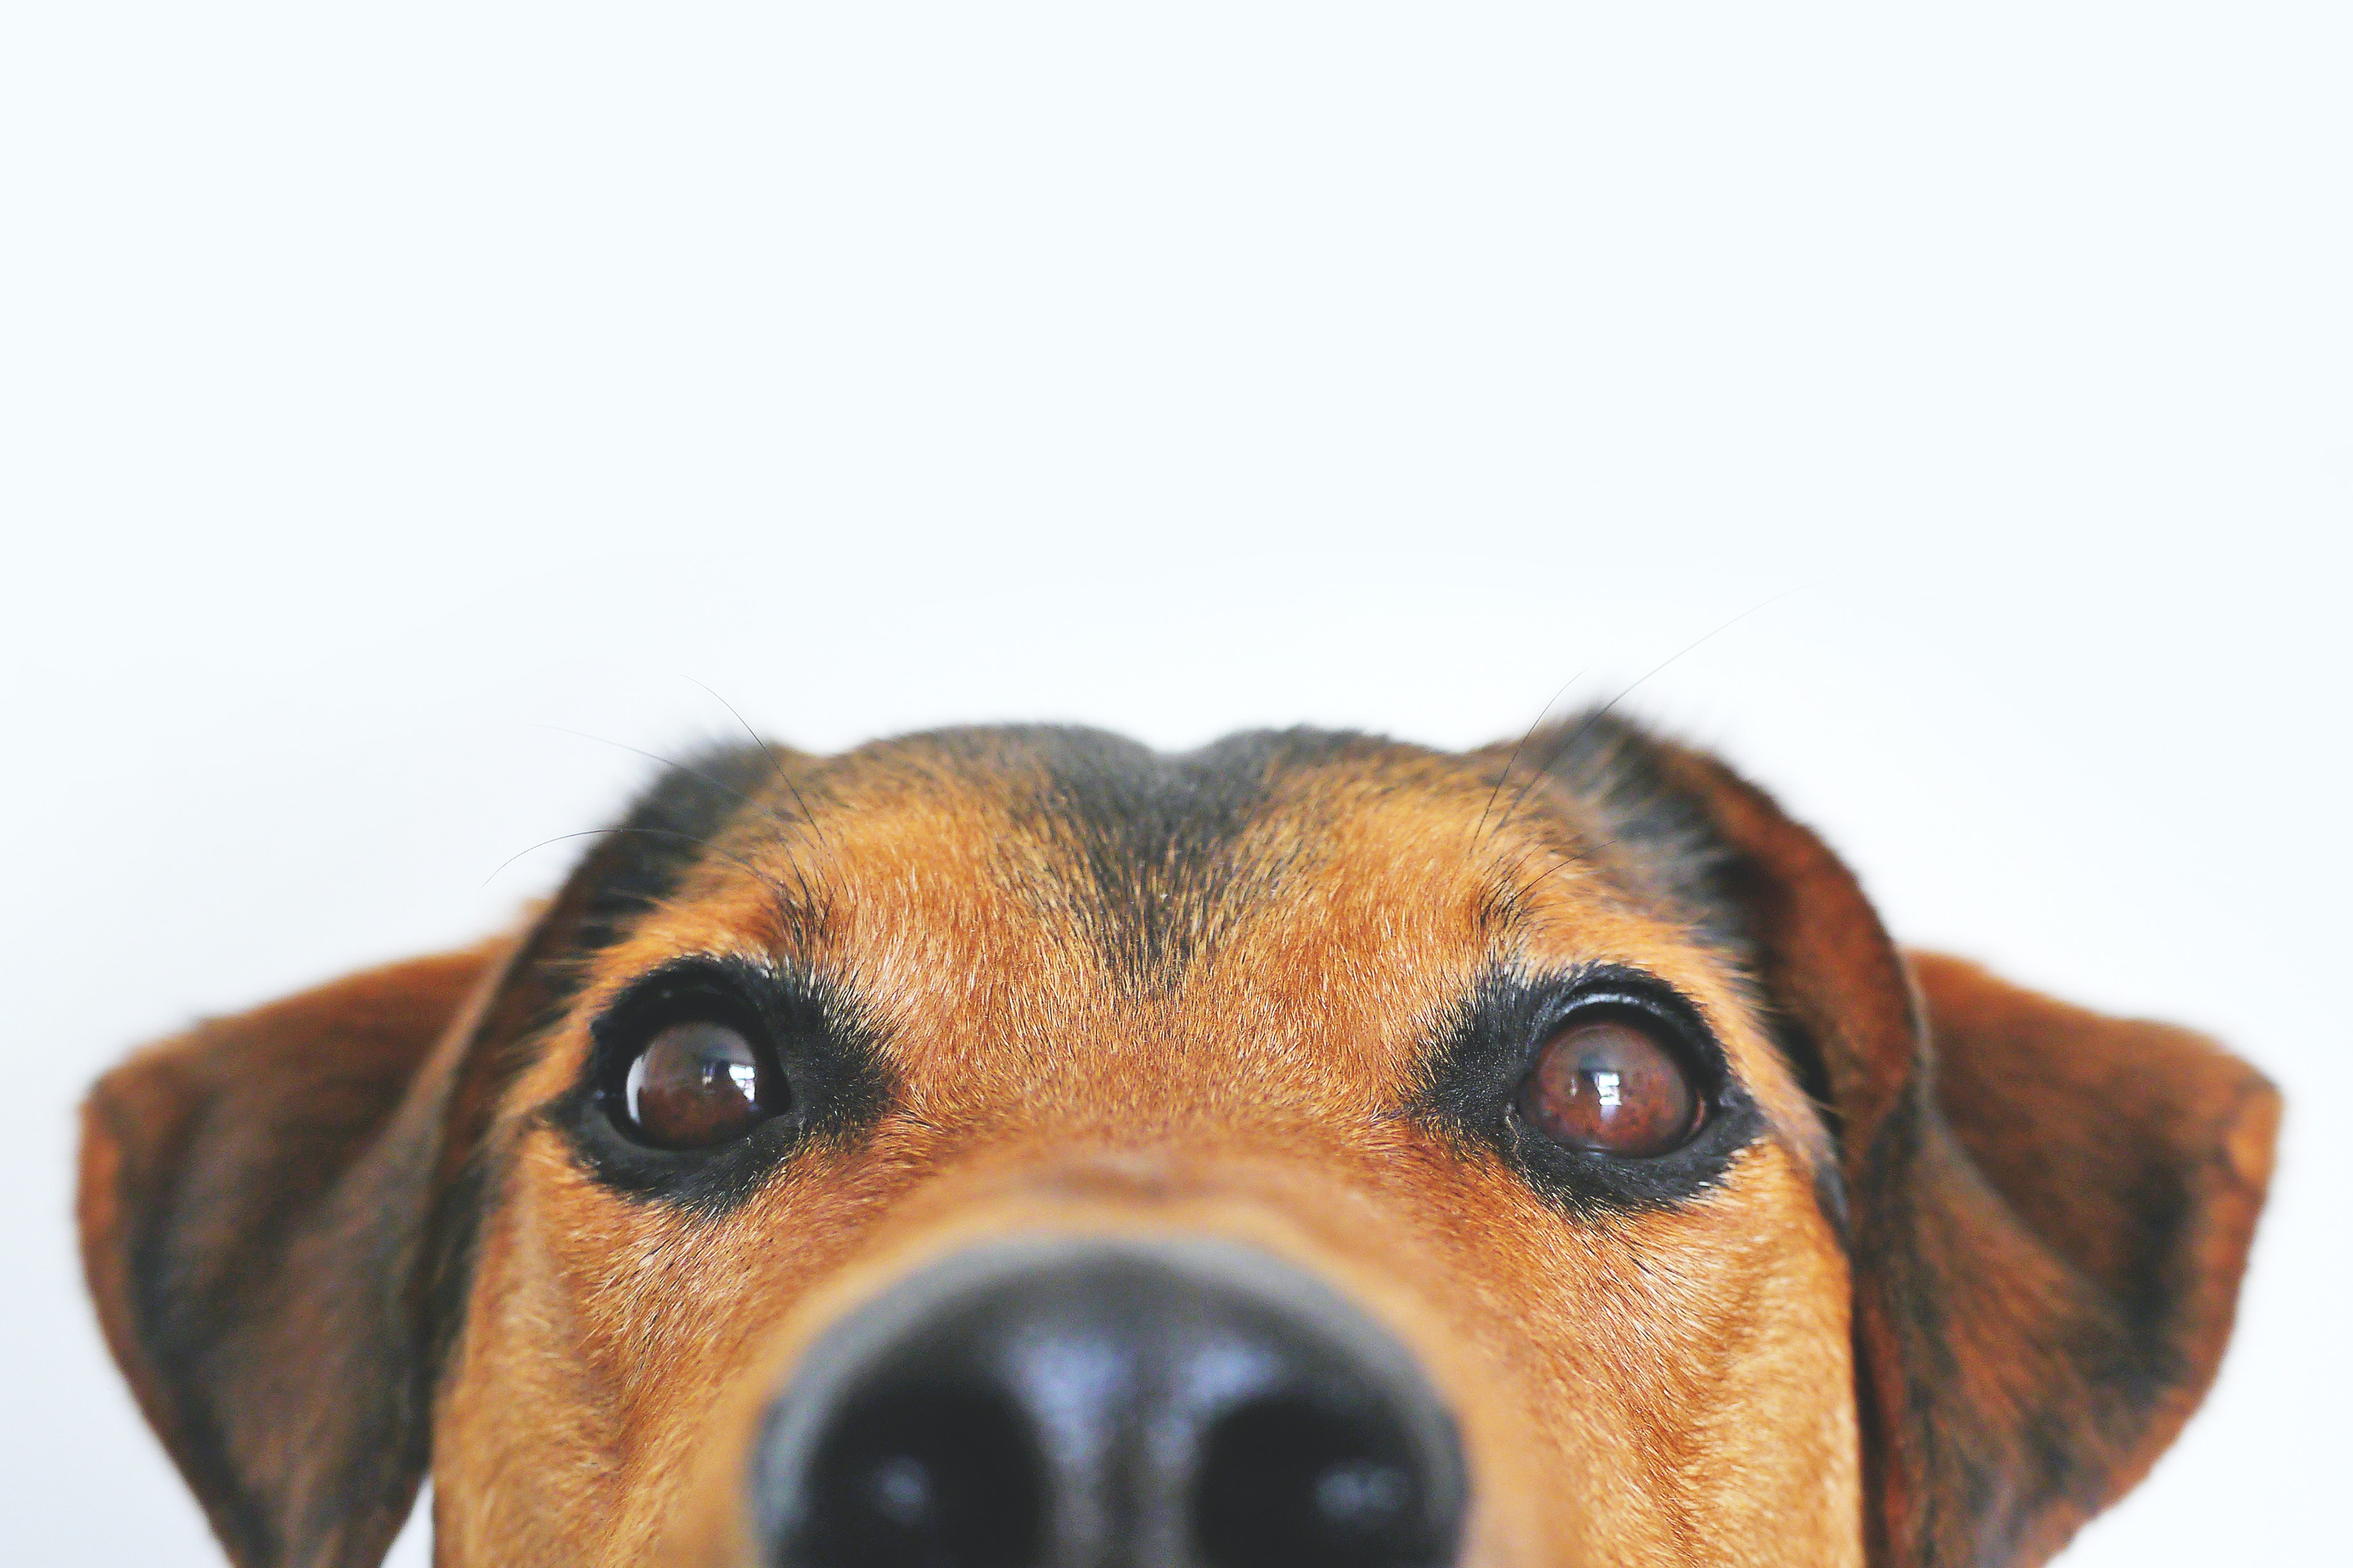
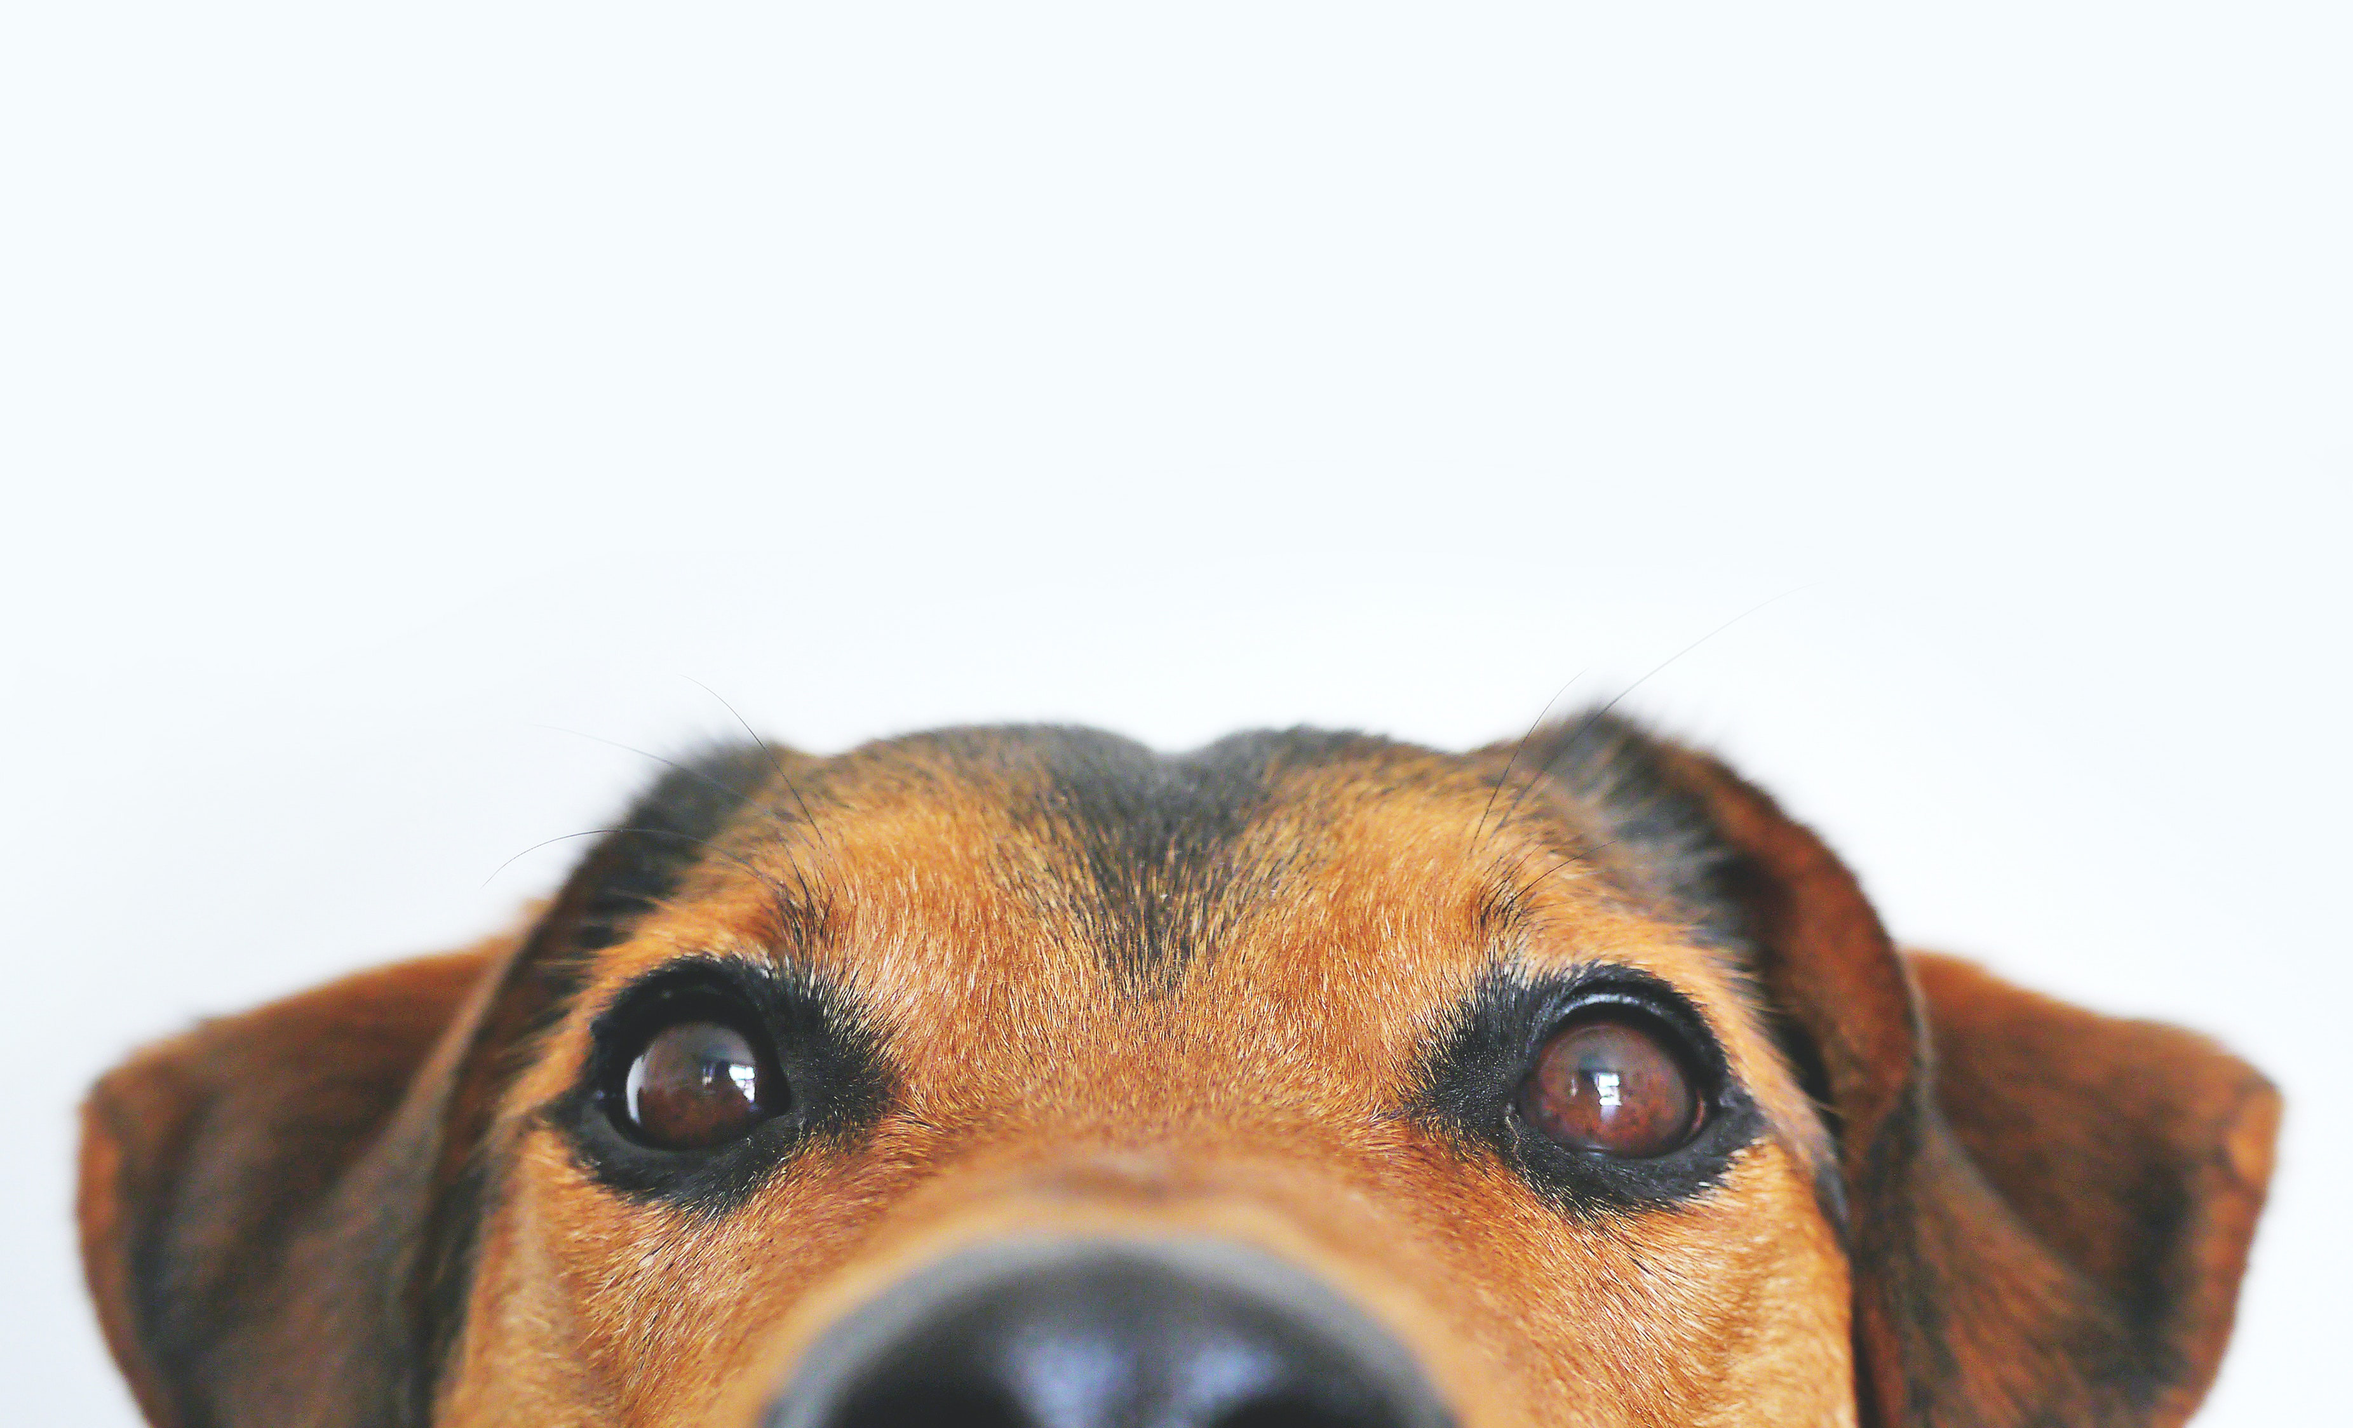
background image css fixed

diff --git a/public/stylesheets/style.css b/public/stylesheets/style.css
@@ -26,7 +26,9 @@ body {
   background-image: url("../images/landing.jpg");
   background-size: 100vw;
   background-repeat: no-repeat;
-  background-position: bottom 0%;
+  background-attachment: fixed;
+  background-position: bottom;
+  background-color: #f6fbfe;
 }
 .nav-link {
     display:flex;
@@ -82,7 +84,7 @@ a:hover {
     font-variant: small-caps;
     text-align: center;
     font-size: 2.8rem;;
-    padding: 8rem;
+    padding: 5rem;
     font-family: 'Noto Sans', sans-serif;
 }
 
